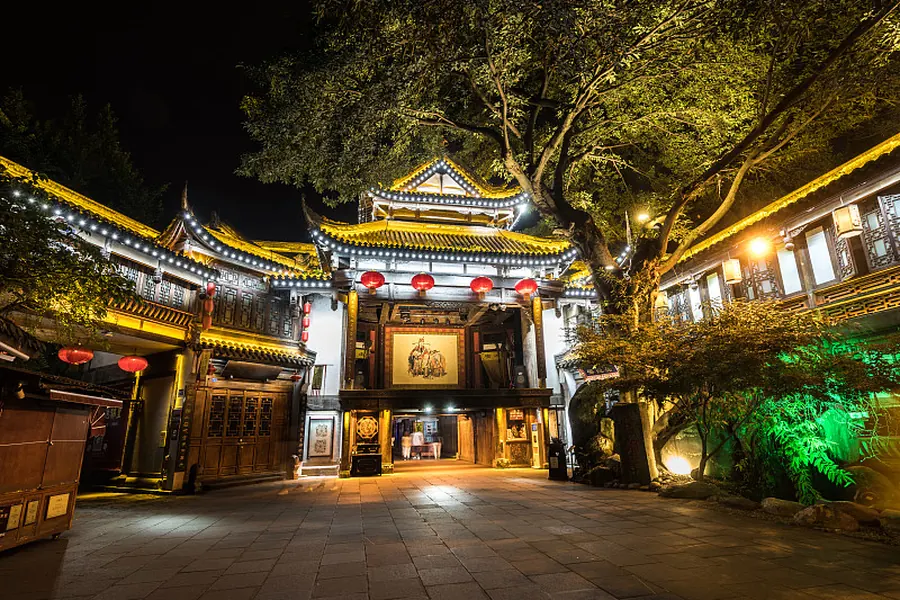
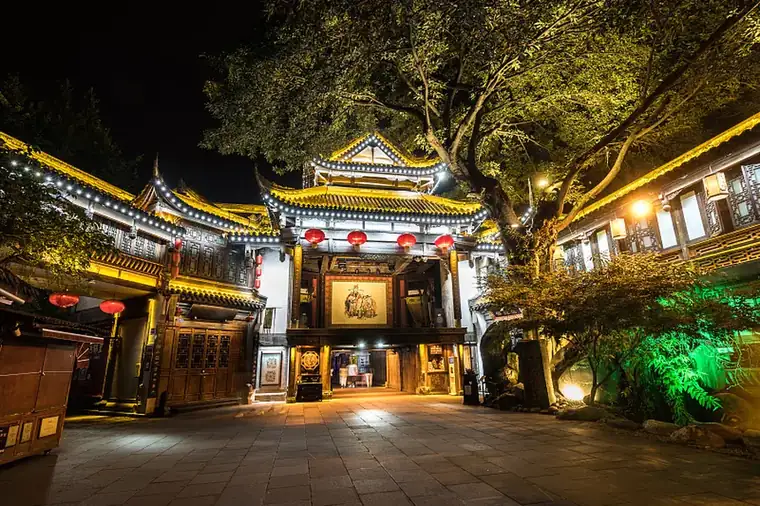
perf: 特价机票图片重压(900x600@78→760x@62),总体积1.1MB→637KB,加快加载

diff --git a/index.html b/index.html
@@ -5,10 +5,10 @@
     <meta name="viewport" content="width=device-width, initial-scale=1.0">
     <title>老牧师航空 - 首页</title>
     <script src="https://cdn.tailwindcss.com/3.4.16"></script>
-    <script src="assets/tailwind-config.js?v=20260920u"></script>
+    <script src="assets/tailwind-config.js?v=20260920v"></script>
     <link href="https://cdn.jsdelivr.net/npm/font-awesome@4.7.0/css/font-awesome.min.css" rel="stylesheet">
     <link rel="preload" as="image" href="assets/hero_bg.webp">
-    <link rel="stylesheet" href="assets/style.css?v=20260920u">
+    <link rel="stylesheet" href="assets/style.css?v=20260920v">
 </head>
 <body class="text-textDark">
     <div class="bg-layer" aria-hidden="true"></div>
@@ -74,7 +74,7 @@
                     </div>
                 </div>
                 <div class="mt-4 flex justify-center">
-                    <img src="assets/icons/plane.png?v=20260920u" alt="机票预订" class="anim-float" style="height:72px;width:auto;filter:drop-shadow(0 6px 16px rgba(74,120,180,0.3))">
+                    <img src="assets/icons/plane.png?v=20260920v" alt="机票预订" class="anim-float" style="height:72px;width:auto;filter:drop-shadow(0 6px 16px rgba(74,120,180,0.3))">
                 </div>
             </div>
             <div class="reveal bg-card card-gold rounded-big shadow-xl text-center" style="padding:34px 24px 26px;min-height:310px;display:flex;flex-direction:column;justify-content:space-between">
@@ -86,7 +86,7 @@
                     </div>
                 </div>
                 <div class="mt-4 flex justify-center items-end">
-                    <img src="assets/railair_icon.png?v=20260920u" alt="空铁联运" class="anim-float" style="height:62px;width:auto;filter:drop-shadow(0 6px 18px rgba(180,60,60,0.25))">
+                    <img src="assets/railair_icon.png?v=20260920v" alt="空铁联运" class="anim-float" style="height:62px;width:auto;filter:drop-shadow(0 6px 18px rgba(180,60,60,0.25))">
                 </div>
             </div>
         </section>
@@ -102,7 +102,7 @@
                     </div>
                 </div>
                 <div class="mt-6 flex justify-center">
-                    <img src="assets/icons/checkin.png?v=20260920u" alt="在线值机" class="anim-float" style="height:72px;width:auto;filter:drop-shadow(0 6px 16px rgba(120,100,200,0.3))">
+                    <img src="assets/icons/checkin.png?v=20260920v" alt="在线值机" class="anim-float" style="height:72px;width:auto;filter:drop-shadow(0 6px 16px rgba(120,100,200,0.3))">
                 </div>
             </div>
             <div class="reveal bg-card card-gold rounded-big shadow-xl text-center" style="padding:50px 20px;min-height:420px;display:flex;flex-direction:column;justify-content:space-between">
@@ -114,7 +114,7 @@
                     </div>
                 </div>
                 <div class="mt-6 flex justify-center">
-                    <img src="assets/icons/flight.png?v=20260920u" alt="航班动态" class="anim-float" style="height:72px;width:auto;filter:drop-shadow(0 6px 16px rgba(60,180,170,0.3));animation-delay:.2s">
+                    <img src="assets/icons/flight.png?v=20260920v" alt="航班动态" class="anim-float" style="height:72px;width:auto;filter:drop-shadow(0 6px 16px rgba(60,180,170,0.3));animation-delay:.2s">
                 </div>
             </div>
             <div class="reveal bg-card card-gold rounded-big shadow-xl text-center" style="padding:50px 20px;min-height:420px;display:flex;flex-direction:column;justify-content:space-between">
@@ -126,7 +126,7 @@
                     </div>
                 </div>
                 <div class="mt-6 flex justify-center">
-                    <img src="assets/icons/member.png?v=20260920u" alt="会员中心" class="anim-float" style="height:72px;width:auto;filter:drop-shadow(0 6px 16px rgba(200,160,80,0.3));animation-delay:.4s">
+                    <img src="assets/icons/member.png?v=20260920v" alt="会员中心" class="anim-float" style="height:72px;width:auto;filter:drop-shadow(0 6px 16px rgba(200,160,80,0.3));animation-delay:.4s">
                 </div>
             </div>
             <div class="reveal bg-card card-gold rounded-big shadow-xl text-center" style="padding:50px 20px;min-height:420px;display:flex;flex-direction:column;justify-content:space-between">
@@ -138,7 +138,7 @@
                     </div>
                 </div>
                 <div class="mt-6 flex justify-center">
-                    <img src="assets/icons/cart.png?v=20260920u" alt="购物车" class="anim-float" style="height:72px;width:auto;filter:drop-shadow(0 6px 16px rgba(230,140,60,0.3));animation-delay:.6s">
+                    <img src="assets/icons/cart.png?v=20260920v" alt="购物车" class="anim-float" style="height:72px;width:auto;filter:drop-shadow(0 6px 16px rgba(230,140,60,0.3));animation-delay:.6s">
                 </div>
             </div>
         </section>
@@ -179,9 +179,9 @@
         </section>
     </main>
     <div id="siteFooter"></div>
-    <script src="assets/data.js?v=20260920u"></script>
-    <script src="assets/common.js?v=20260920u"></script>
-    <script src="assets/routes-data.js?v=20260920u"></script>
+    <script src="assets/data.js?v=20260920v"></script>
+    <script src="assets/common.js?v=20260920v"></script>
+    <script src="assets/routes-data.js?v=20260920v"></script>
     <script>
         function quickSearch(start,end){location.href=`booking.html?start=${encodeURIComponent(start)}&end=${encodeURIComponent(end)}`;}
         function routeCard(r){

diff --git a/egg.html b/egg.html
@@ -5,16 +5,16 @@
     <meta name="viewport" content="width=device-width, initial-scale=1.0">
     <title>神秘彩蛋 | 老牧师航空</title>
     <script src="https://cdn.tailwindcss.com/3.4.16"></script>
-    <script src="assets/tailwind-config.js?v=20260920u"></script>
+    <script src="assets/tailwind-config.js?v=20260920v"></script>
     <link href="https://cdn.jsdelivr.net/npm/font-awesome@4.7.0/css/font-awesome.min.css" rel="stylesheet">
-    <link rel="stylesheet" href="assets/style.css?v=20260920u">
+    <link rel="stylesheet" href="assets/style.css?v=20260920v">
 </head>
 <body class="text-textDark">
     <div id="siteHeader"></div>
     <main class="pt-32 pb-16 container mx-auto px-4 max-w-2xl text-center">
         <!-- 彩蛋吉祥物 -->
         <div class="bg-card card-gold p-8 rounded-big shadow-xl anim-up">
-            <img src="assets/egg_mascot.png?v=20260920u" alt="神秘吉祥物" class="mx-auto w-48 h-48 object-contain rounded-3xl bounce-hover">
+            <img src="assets/egg_mascot.png?v=20260920v" alt="神秘吉祥物" class="mx-auto w-48 h-48 object-contain rounded-3xl bounce-hover">
             <h2 class="text-2xl font-bold text-white mt-6">🎉 恭喜你发现了神秘彩蛋！</h2>
             <p class="text-white/70 mt-2">这只爱比耶的小袋鼠送你一次抽奖机会，每天可抽一次</p>
 
@@ -31,8 +31,8 @@
         </div>
     </main>
     <div id="siteFooter"></div>
-    <script src="assets/data.js?v=20260920u"></script>
-    <script src="assets/common.js?v=20260920u"></script>
+    <script src="assets/data.js?v=20260920v"></script>
+    <script src="assets/common.js?v=20260920v"></script>
     <script>
         // 奖品池
         const PRIZES=[

diff --git a/member.html b/member.html
@@ -5,9 +5,9 @@
     <meta name="viewport" content="width=device-width, initial-scale=1.0">
     <title>会员中心 | 老牧师航空</title>
     <script src="https://cdn.tailwindcss.com/3.4.16"></script>
-    <script src="assets/tailwind-config.js?v=20260920u"></script>
+    <script src="assets/tailwind-config.js?v=20260920v"></script>
     <link href="https://cdn.jsdelivr.net/npm/font-awesome@4.7.0/css/font-awesome.min.css" rel="stylesheet">
-    <link rel="stylesheet" href="assets/style.css?v=20260920u">
+    <link rel="stylesheet" href="assets/style.css?v=20260920v">
 </head>
 <body class="text-textDark">
     <div id="siteHeader"></div>
@@ -132,8 +132,8 @@
             </div>
         </div>
     </div>
-    <script src="assets/data.js?v=20260920u"></script>
-    <script src="assets/common.js?v=20260920u"></script>
+    <script src="assets/data.js?v=20260920v"></script>
+    <script src="assets/common.js?v=20260920v"></script>
     <script>
         const LV_COLORS={普卡:'text-white',银卡:'text-gray-300',金卡:'text-gold',铂金卡:'text-amber-300',钻石卡:'text-cyan-300'};
         const LV_DESC={普卡:'注册即享 · 里程累积、会员专属客服、会员价购票',银卡:'1万里程 · 优先值机、额外10%里程加成、生日礼遇',金卡:'3万里程 · 免费选座、贵宾安检通道、额外25%里程、优先登机',铂金卡:'6万里程 · 贵宾休息室、升舱券×1/年、额外50%里程',钻石卡:'10万里程 · 专属管家、无限休息室、额外100%里程'};

diff --git a/routes.html b/routes.html
@@ -5,9 +5,9 @@
     <meta name="viewport" content="width=device-width, initial-scale=1.0">
     <title>全部航线 | 老牧师航空</title>
     <script src="https://cdn.tailwindcss.com/3.4.16"></script>
-    <script src="assets/tailwind-config.js?v=20260920u"></script>
+    <script src="assets/tailwind-config.js?v=20260920v"></script>
     <link href="https://cdn.jsdelivr.net/npm/font-awesome@4.7.0/css/font-awesome.min.css" rel="stylesheet">
-    <link rel="stylesheet" href="assets/style.css?v=20260920u">
+    <link rel="stylesheet" href="assets/style.css?v=20260920v">
 </head>
 <body class="text-textDark">
     <div id="siteHeader"></div>
@@ -26,9 +26,9 @@
         </div>
     </main>
     <div id="siteFooter"></div>
-    <script src="assets/data.js?v=20260920u"></script>
-    <script src="assets/common.js?v=20260920u"></script>
-    <script src="assets/routes-data.js?v=20260920u"></script>
+    <script src="assets/data.js?v=20260920v"></script>
+    <script src="assets/common.js?v=20260920v"></script>
+    <script src="assets/routes-data.js?v=20260920v"></script>
     <script>
         function quickSearch(start,end){location.href=`booking.html?start=${encodeURIComponent(start)}&end=${encodeURIComponent(end)}`;}
         function routeCard(r){

diff --git a/shop.html b/shop.html
@@ -5,9 +5,9 @@
     <meta name="viewport" content="width=device-width, initial-scale=1.0">
     <title>牧师商城 | 老牧师航空</title>
     <script src="https://cdn.tailwindcss.com/3.4.16"></script>
-    <script src="assets/tailwind-config.js?v=20260920u"></script>
+    <script src="assets/tailwind-config.js?v=20260920v"></script>
     <link href="https://cdn.jsdelivr.net/npm/font-awesome@4.7.0/css/font-awesome.min.css" rel="stylesheet">
-    <link rel="stylesheet" href="assets/style.css?v=20260920u">
+    <link rel="stylesheet" href="assets/style.css?v=20260920v">
 </head>
 <body class="text-textDark">
     <div class="bg-layer" aria-hidden="true"></div>
@@ -78,8 +78,8 @@
     </div>
 
     <div id="siteFooter"></div>
-    <script src="assets/data.js?v=20260920u"></script>
-    <script src="assets/common.js?v=20260920u"></script>
+    <script src="assets/data.js?v=20260920v"></script>
+    <script src="assets/common.js?v=20260920v"></script>
     <script>
         const SHOP_ITEMS=[
             {id:"plane",name:"波音787 飞机模型（1:400）",img:"assets/shop/plane.webp",price:299,desc:"银色涂装 · 老牧师航空定制",tag:"热卖"},

diff --git a/special.html b/special.html
@@ -5,9 +5,9 @@
     <meta name="viewport" content="width=device-width, initial-scale=1.0">
     <title>特殊服务申请 | 老牧师航空</title>
     <script src="https://cdn.tailwindcss.com/3.4.16"></script>
-    <script src="assets/tailwind-config.js?v=20260920u"></script>
+    <script src="assets/tailwind-config.js?v=20260920v"></script>
     <link href="https://cdn.jsdelivr.net/npm/font-awesome@4.7.0/css/font-awesome.min.css" rel="stylesheet">
-    <link rel="stylesheet" href="assets/style.css?v=20260920u">
+    <link rel="stylesheet" href="assets/style.css?v=20260920v">
 </head>
 <body class="text-textDark">
     <div id="siteHeader"></div>
@@ -49,8 +49,8 @@
         </div>
     </main>
     <div id="siteFooter"></div>
-    <script src="assets/data.js?v=20260920u"></script>
-    <script src="assets/common.js?v=20260920u"></script>
+    <script src="assets/data.js?v=20260920v"></script>
+    <script src="assets/common.js?v=20260920v"></script>
     <script>
         const SPECIAL_FORMS={
             meal:{name:"定制特殊餐食",icon:"fa-cutlery",desc:"素食/清真/婴儿餐等特殊餐食定制，需在起飞前24小时申请",

diff --git a/booking.html b/booking.html
@@ -5,9 +5,9 @@
     <meta name="viewport" content="width=device-width, initial-scale=1.0">
     <title>出行预订 | 老牧师航空</title>
     <script src="https://cdn.tailwindcss.com/3.4.16"></script>
-    <script src="assets/tailwind-config.js?v=20260920u"></script>
+    <script src="assets/tailwind-config.js?v=20260920v"></script>
     <link href="https://cdn.jsdelivr.net/npm/font-awesome@4.7.0/css/font-awesome.min.css" rel="stylesheet">
-    <link rel="stylesheet" href="assets/style.css?v=20260920u">
+    <link rel="stylesheet" href="assets/style.css?v=20260920v">
 </head>
 <body class="text-textDark">
     <div id="siteHeader"></div>
@@ -87,8 +87,8 @@
         </div>
     </main>
     <div id="siteFooter"></div>
-    <script src="assets/data.js?v=20260920u"></script>
-    <script src="assets/common.js?v=20260920u"></script>
+    <script src="assets/data.js?v=20260920v"></script>
+    <script src="assets/common.js?v=20260920v"></script>
     <script>
         const PAGE_SIZE=8;
         let currentList=[],shown=0,selectFlight=null,selectCabin="eco",selectType="flight",selectPlan=null,selectWeatherRisk=null,currentRailList=[];

diff --git a/cart.html b/cart.html
@@ -5,9 +5,9 @@
     <meta name="viewport" content="width=device-width, initial-scale=1.0">
     <title>购物车 | 老牧师航空</title>
     <script src="https://cdn.tailwindcss.com/3.4.16"></script>
-    <script src="assets/tailwind-config.js?v=20260920u"></script>
+    <script src="assets/tailwind-config.js?v=20260920v"></script>
     <link href="https://cdn.jsdelivr.net/npm/font-awesome@4.7.0/css/font-awesome.min.css" rel="stylesheet">
-    <link rel="stylesheet" href="assets/style.css?v=20260920u">
+    <link rel="stylesheet" href="assets/style.css?v=20260920v">
 </head>
 <body class="text-textDark">
     <div id="siteHeader"></div>
@@ -35,8 +35,8 @@
         </div>
     </div>
     <div id="siteFooter"></div>
-    <script src="assets/data.js?v=20260920u"></script>
-    <script src="assets/common.js?v=20260920u"></script>
+    <script src="assets/data.js?v=20260920v"></script>
+    <script src="assets/common.js?v=20260920v"></script>
     <script>
         const TRAIN_SEAT_KEYS=['second','first','business'];
         const TRAIN_SEAT_NAME={second:'二等座',first:'一等座',business:'商务座'};

diff --git a/checkin.html b/checkin.html
@@ -5,9 +5,9 @@
     <meta name="viewport" content="width=device-width, initial-scale=1.0">
     <title>在线值机 | 老牧师航空</title>
     <script src="https://cdn.tailwindcss.com/3.4.16"></script>
-    <script src="assets/tailwind-config.js?v=20260920u"></script>
+    <script src="assets/tailwind-config.js?v=20260920v"></script>
     <link href="https://cdn.jsdelivr.net/npm/font-awesome@4.7.0/css/font-awesome.min.css" rel="stylesheet">
-    <link rel="stylesheet" href="assets/style.css?v=20260920u">
+    <link rel="stylesheet" href="assets/style.css?v=20260920v">
 </head>
 <body class="text-textDark">
     <div id="siteHeader"></div>
@@ -17,8 +17,8 @@
         <div id="boardingPass" class="hidden"></div>
     </main>
     <div id="siteFooter"></div>
-    <script src="assets/data.js?v=20260920u"></script>
-    <script src="assets/common.js?v=20260920u"></script>
+    <script src="assets/data.js?v=20260920v"></script>
+    <script src="assets/common.js?v=20260920v"></script>
     <script>
         let curOrder=null,selectedSeat=null;
         function hasActiveBenefit(id){

diff --git a/activity-1.html b/activity-1.html
@@ -5,9 +5,9 @@
     <meta name="viewport" content="width=device-width, initial-scale=1.0">
     <title>逐梦云天·定格航影 | 老牧师航空</title>
     <script src="https://cdn.tailwindcss.com/3.4.16"></script>
-    <script src="assets/tailwind-config.js?v=20260920u"></script>
+    <script src="assets/tailwind-config.js?v=20260920v"></script>
     <link href="https://cdn.jsdelivr.net/npm/font-awesome@4.7.0/css/font-awesome.min.css" rel="stylesheet">
-    <link rel="stylesheet" href="assets/style.css?v=20260920u">
+    <link rel="stylesheet" href="assets/style.css?v=20260920v">
 </head>
 <body class="text-textDark">
     <div id="siteHeader"></div>
@@ -106,8 +106,8 @@
         </section>
     </main>
     <div id="siteFooter"></div>
-    <script src="assets/data.js?v=20260920u"></script>
-    <script src="assets/common.js?v=20260920u"></script>
+    <script src="assets/data.js?v=20260920v"></script>
+    <script src="assets/common.js?v=20260920v"></script>
     <script>
         const io=new IntersectionObserver(entries=>{
             entries.forEach(e=>{

diff --git a/customer.html b/customer.html
@@ -5,9 +5,9 @@
     <meta name="viewport" content="width=device-width, initial-scale=1.0">
     <title>在线客服 | 老牧师航空</title>
     <script src="https://cdn.tailwindcss.com/3.4.16"></script>
-    <script src="assets/tailwind-config.js?v=20260920u"></script>
+    <script src="assets/tailwind-config.js?v=20260920v"></script>
     <link href="https://cdn.jsdelivr.net/npm/font-awesome@4.7.0/css/font-awesome.min.css" rel="stylesheet">
-    <link rel="stylesheet" href="assets/style.css?v=20260920u">
+    <link rel="stylesheet" href="assets/style.css?v=20260920v">
 </head>
 <body class="text-textDark">
     <div id="siteHeader"></div>
@@ -54,8 +54,8 @@
         </div>
     </div>
     <div id="siteFooter"></div>
-    <script src="assets/data.js?v=20260920u"></script>
-    <script src="assets/common.js?v=20260920u"></script>
+    <script src="assets/data.js?v=20260920v"></script>
+    <script src="assets/common.js?v=20260920v"></script>
     <script>
         const chatBody=document.getElementById("chatBody");
         function botReply(text){

diff --git a/order.html b/order.html
@@ -5,9 +5,9 @@
     <meta name="viewport" content="width=device-width, initial-scale=1.0">
     <title>我的订单 | 老牧师航空</title>
     <script src="https://cdn.tailwindcss.com/3.4.16"></script>
-    <script src="assets/tailwind-config.js?v=20260920u"></script>
+    <script src="assets/tailwind-config.js?v=20260920v"></script>
     <link href="https://cdn.jsdelivr.net/npm/font-awesome@4.7.0/css/font-awesome.min.css" rel="stylesheet">
-    <link rel="stylesheet" href="assets/style.css?v=20260920u">
+    <link rel="stylesheet" href="assets/style.css?v=20260920v">
 </head>
 <body class="text-textDark">
     <div id="siteHeader"></div>
@@ -74,8 +74,8 @@
         </div>
     </div>
     <div id="siteFooter"></div>
-    <script src="assets/data.js?v=20260920u"></script>
-    <script src="assets/common.js?v=20260920u"></script>
+    <script src="assets/data.js?v=20260920v"></script>
+    <script src="assets/common.js?v=20260920v"></script>
     <script>
         let changeIdx=null,changeFree=false;
         let cabinIdx=null,cabinTargetKey=null;
